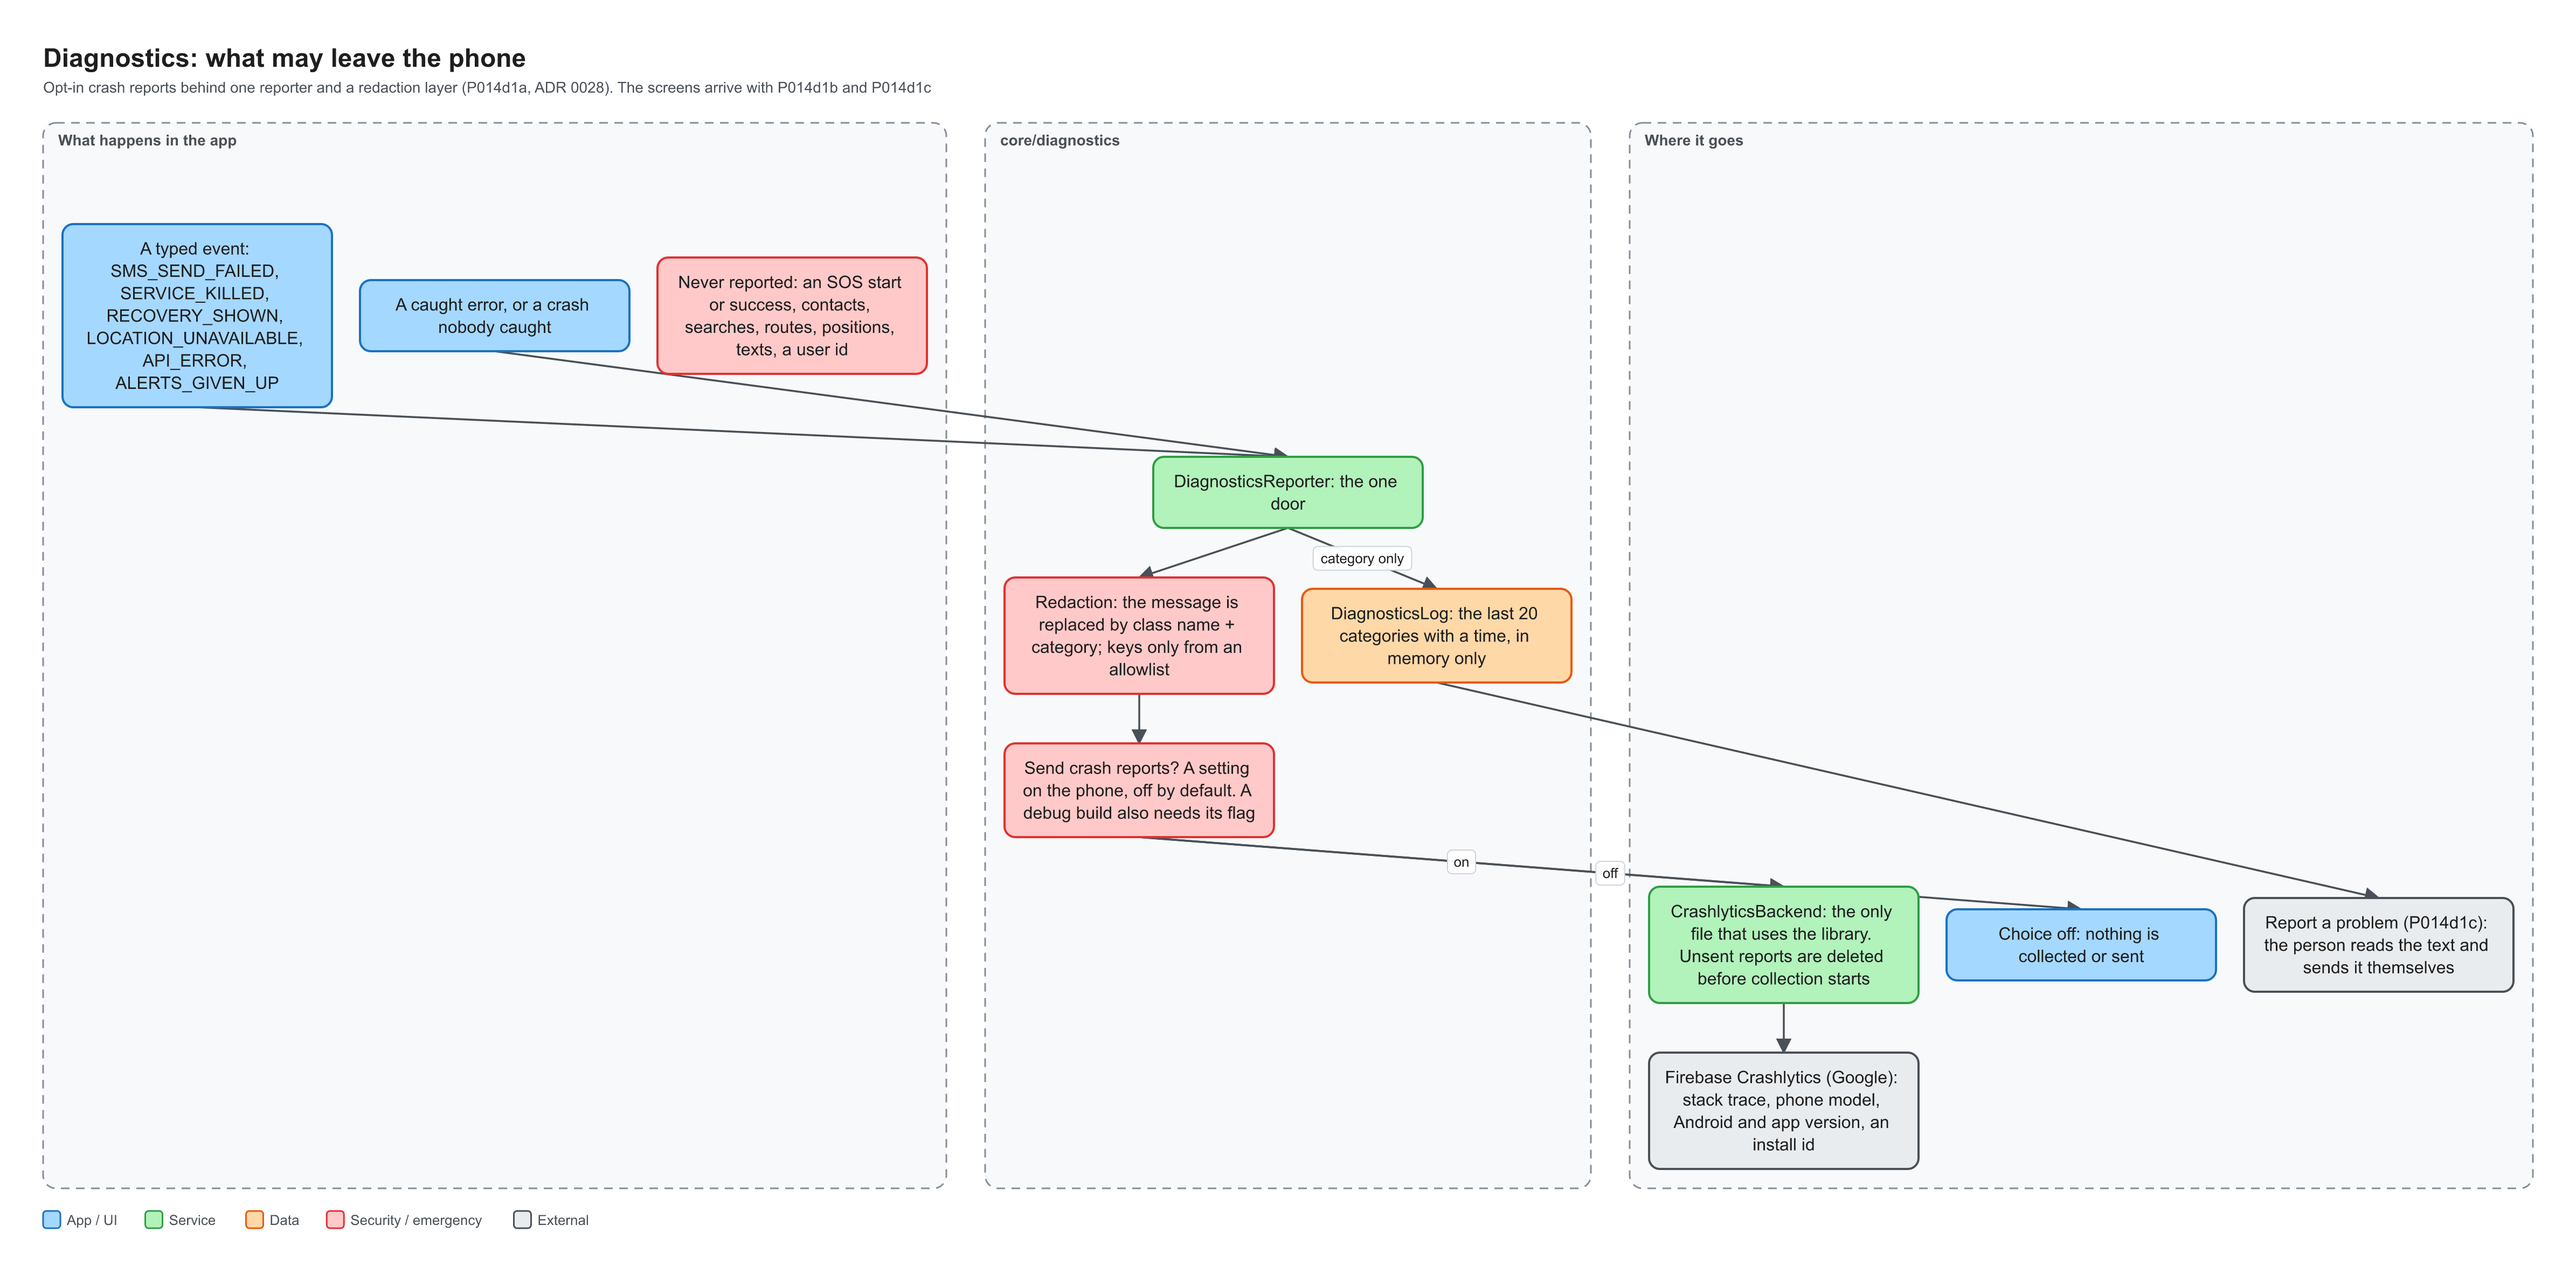
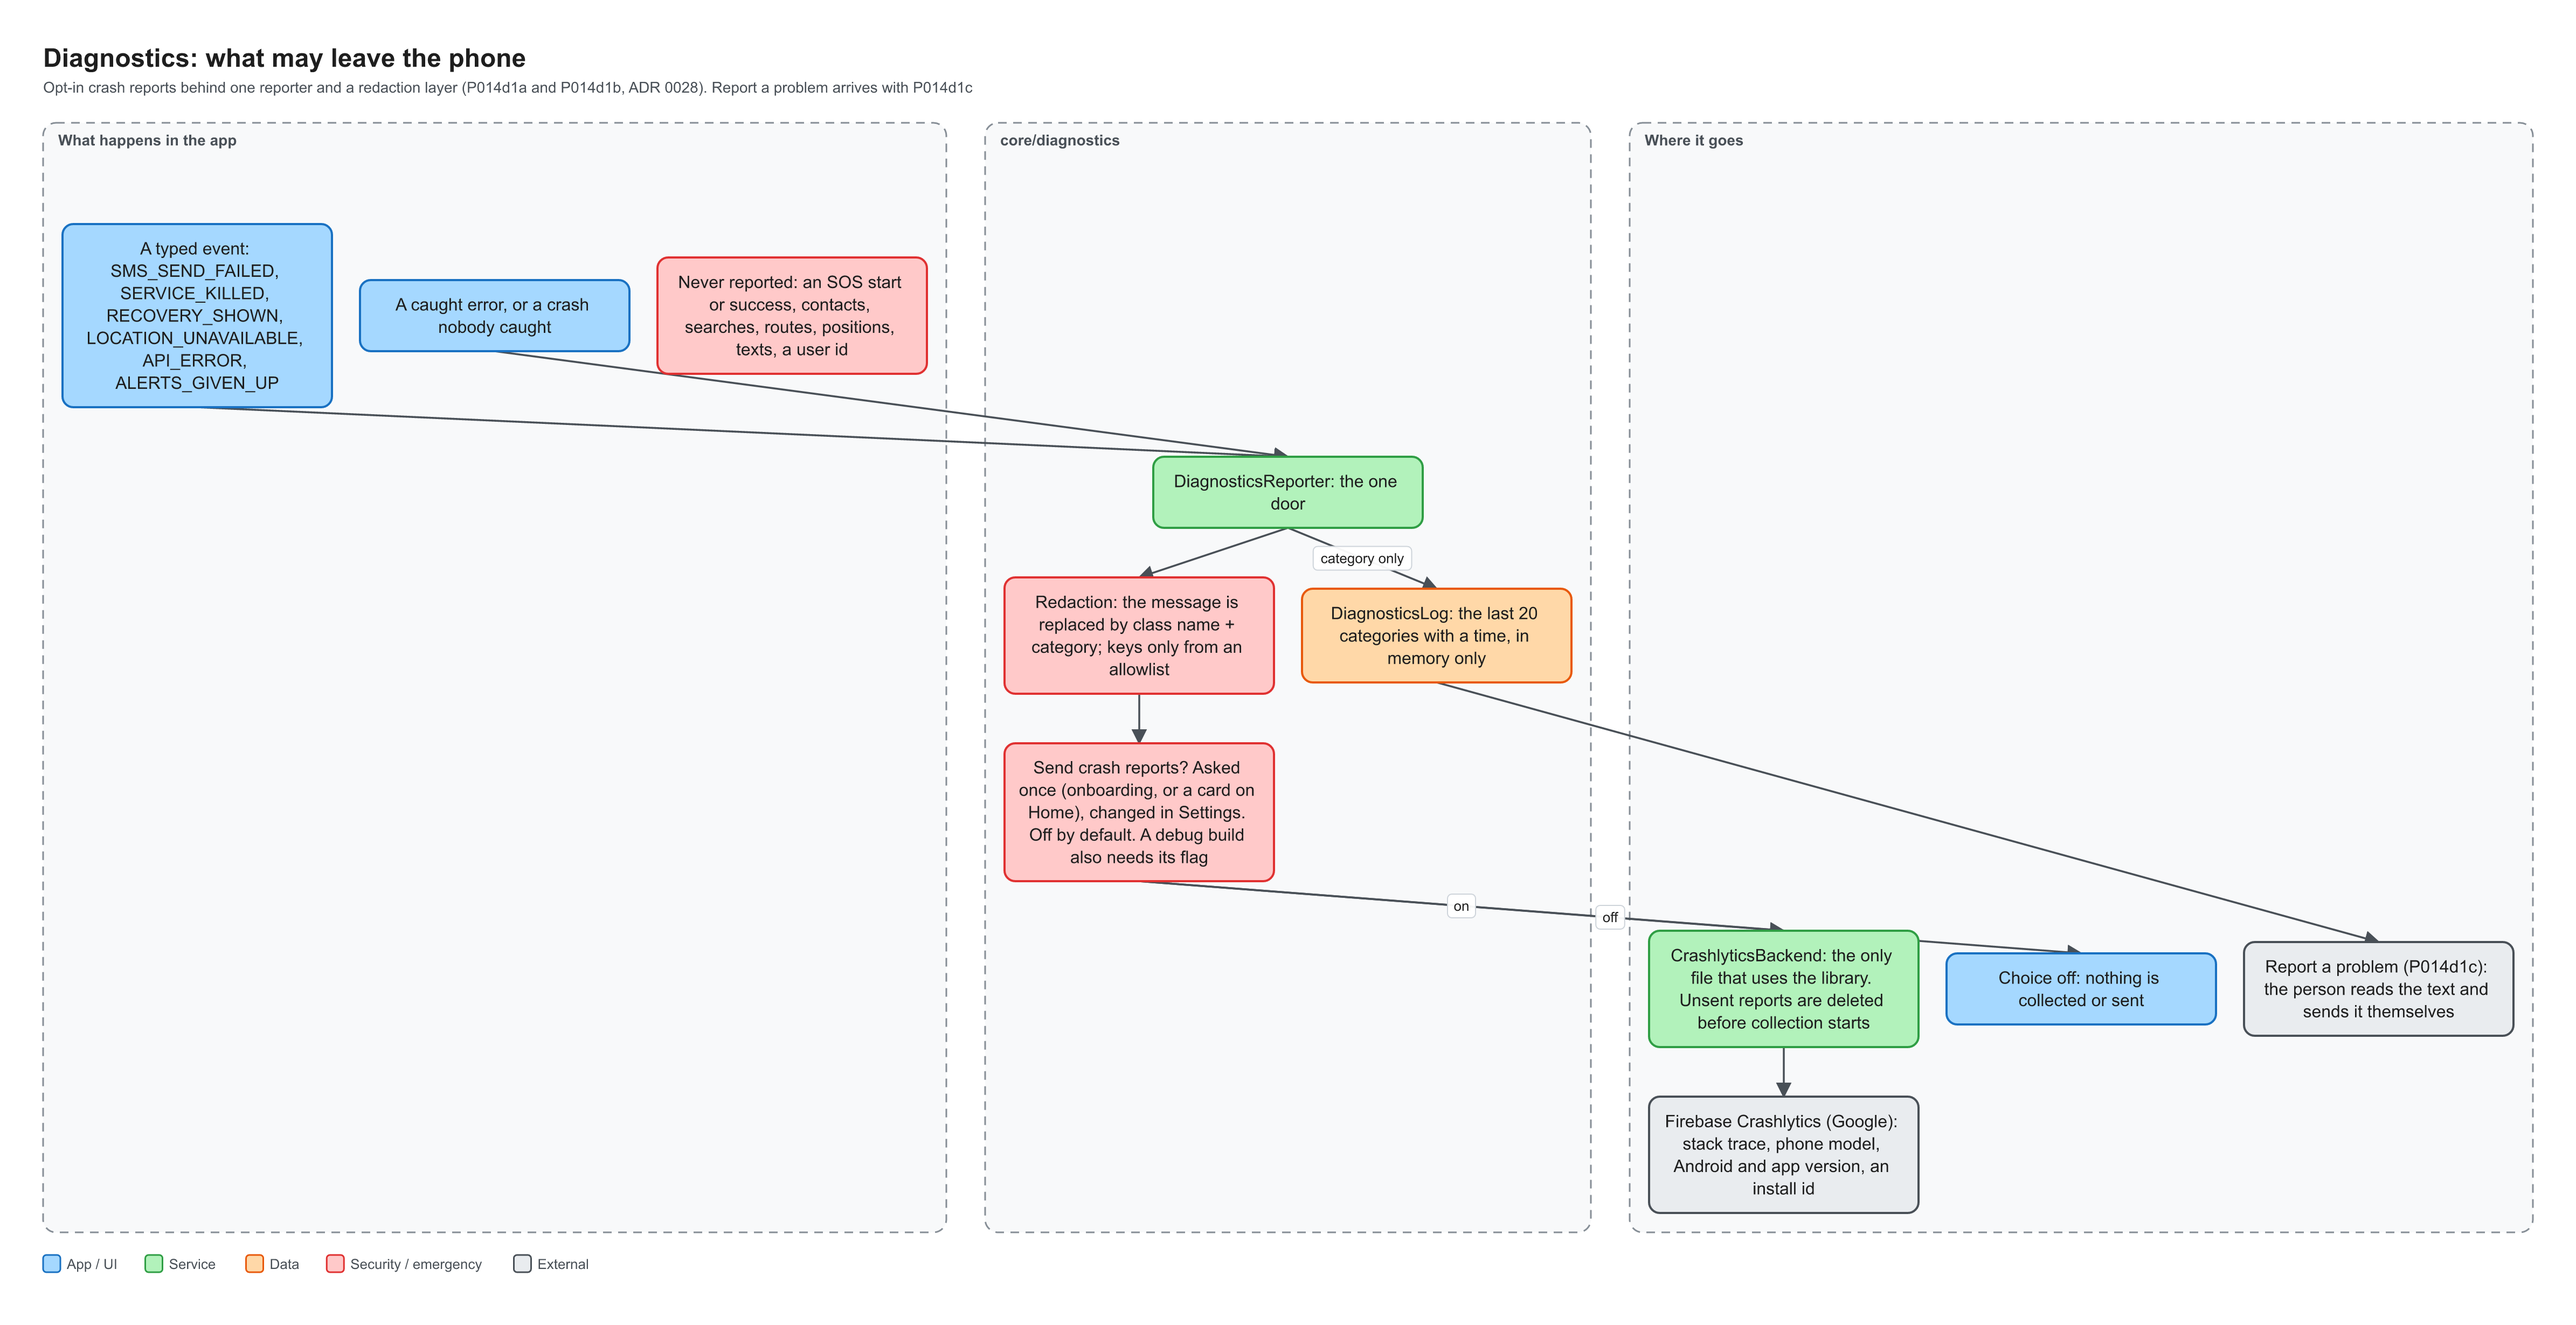
docs(android): where the crash-report choice is put, the known gap in the failure matrix [P014d1b]
Why: the choice changes a user flow and what can be known about field failures.

What changed: a note in ADR 0028; known gap 9 in docs/sos/failure-matrix.md (no row
changed); the rule in CLAUDE.md; the diagram.

How tested: diagram generator ran.

Risks-follow-ups: see the prompt log.

Refs: P014d1b

diff --git a/docs/adr/0028-diagnostics-and-crash-reporting.md b/docs/adr/0028-diagnostics-and-crash-reporting.md
@@ -136,3 +136,25 @@ Legal statements here are drafts, **to be verified by a lawyer**.
 - `android/app/src/main/java/com/saferoute/app/core/diagnostics/`,
   `android/app/build.gradle.kts`, `android/app/src/main/AndroidManifest.xml`.
 - Prompt log: [`docs/prompt-logs/014d1a-crash-reporting-core.md`](../prompt-logs/014d1a-crash-reporting-core.md).
+
+## Note of 2026-10-13 (P014d1b): where the choice is put
+
+- **Onboarding.** One step after the account notice and before the phone number: the
+  notice text and an unticked box, "Send crash reports". "Continue" works either way and
+  records what the box says. Nothing is sent from that screen, and the order "age, consent,
+  phone" is unchanged: the step sits between the last two.
+- **Settings.** A section "Diagnostics" with the switch and the same notice, including
+  that reports already sent stay until the provider deletes them.
+- **Home, once.** A person who finished onboarding before this version has never been
+  asked. They see a card in the Home sheet with two buttons of equal weight. It is a card,
+  never a dialog: it blocks nothing, does not cover the SOS control and is not part of any
+  SOS screen. Either button answers it for good.
+- **The answer stays on the phone across sign-out.** It is a setting of the device, not of
+  the account, and the server never learns it. A second person who signs in on the same
+  phone finds the switch as it was left, in Settings. To be looked at by the lawyer.
+- **The text** is the `diagnostics_*` strings, mirrored in
+  [`docs/legal/diagnostics-notice-v1.md`](../legal/diagnostics-notice-v1.md)
+  (`CrashReportsChoiceTest`), version `2026-10-diagnostics-draft1`. Changing what a report
+  holds means changing the text and its version in the same prompt.
+- **The debug Developer screen** has "Test crash" and "Test non-fatal" and says whether
+  this build is collecting. They exist in debug builds only.

diff --git a/CLAUDE.md b/CLAUDE.md
@@ -516,6 +516,14 @@ and [`android/README.md`](android/README.md):
   or opens a connection itself. Mapping upload stays off until the release pipeline (P022).
   A new merged manifest entry from a library fails `DiagnosticsDeviceTest`: read what it is
   before changing the list. SOS reliability is never measured through crash reports.
+  The choice (since P014d1b, `feature/diagnostics/CrashReportsChoice.kt`): one optional,
+  **unticked** step after the account notice and before sign-in, a switch in Settings, and
+  one card on Home for a person never asked. Never pre-tick it, never make it a dialog,
+  never show it on an SOS screen, and never ask again after an answer. Its text is the
+  `diagnostics_*` strings, mirrored in `docs/legal/diagnostics-notice-v1.md`
+  (`CrashReportsChoiceTest`); changing what a report holds means changing the text and
+  `DIAGNOSTICS_NOTICE_VERSION` in the same prompt. A Hilt test that needs the step or the
+  card calls `FakeDiagnosticsPreferences.clearAsked()`; they are answered by default in tests.
 - Onboarding (since P009c): the session state decides the screen (`navigation/OnboardingNavHost`);
   Home is shown only for `SessionState.Ready`. "I am under 18" has no in-app undo and needs the
   confirmation dialog first (ADR 0010, addendum). The consent notice text lives in the `notice_*`

diff --git a/docs/sos/failure-matrix.md b/docs/sos/failure-matrix.md
@@ -167,6 +167,11 @@ show it", items 7 and 8.
    be shown. In each case the SOS is shown when the app is next opened, as before. Not
    seen on any phone.
 
+9. **Failures in the field are visible only for testers who opt in** (P014d1b, ADR 0028).
+   Crash reports are off by default, and a report never says that an SOS started or went
+   well. A crash or a failed alert on the phone of someone who left the choice off reaches
+   nobody unless that person writes. No row's status may be taken from crash reports.
+
 ### Accepted risks in the design (ADR 0027)
 
 1. **An opt-out made shortly before the trigger** and not yet on the phone is missed when a
@@ -955,3 +960,5 @@ The row is new in P014c3; these tests are from P014c1a and on `main` since `5e57
   (new row A15, tests of P014c1a). "I'm safe" from a notification goes through the unlock.
   Scripts: M27 written (it was a draft), M31 and M32 new. The tests of P014c2c count now.
   "State of the build" says that the device side is complete and what remains.
+- **P014d1b** (2026-10-13): no row changed. Known gap 9 added: crash reports are opt-in,
+  so field failures are visible only for testers who opt in.

diff --git a/docs/prompt-logs/014d1-progress.md b/docs/prompt-logs/014d1-progress.md
@@ -69,3 +69,4 @@ Not certain:
 - P014d1a step 2 (`core/diagnostics`: reporter, redaction, events, setting, tests): done. Next: ADR 0028, README, prompt log, gate, ship.
 - P014d1a step 3 (ADR 0028, diagram, README, CLAUDE.md rule): done. Next: gate three times, release build, prompt log, ship.
 - P014d1a step 4 (gate three times, release build, prompt log): done. Next: push, PR, Notion. Then P014d1b.
+- P014d1b step 1 (choice in onboarding, Settings, Home; developer buttons; notice document; tests): done. Next: ADR note, matrix line, phone script, log, gate, ship.
